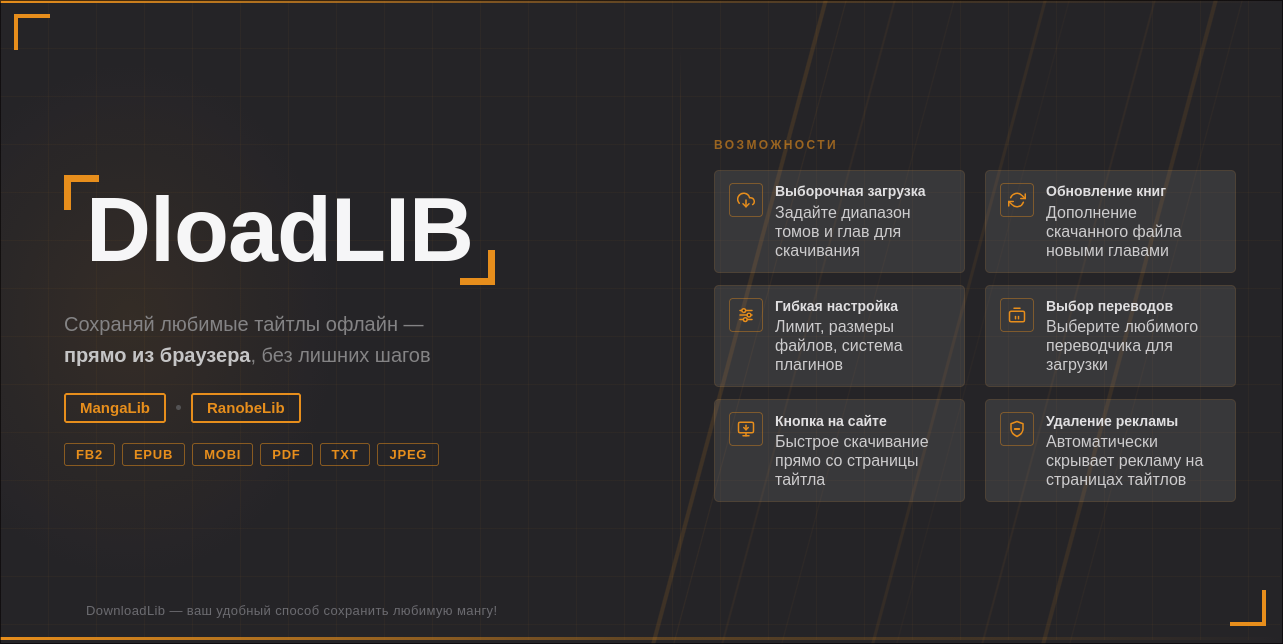
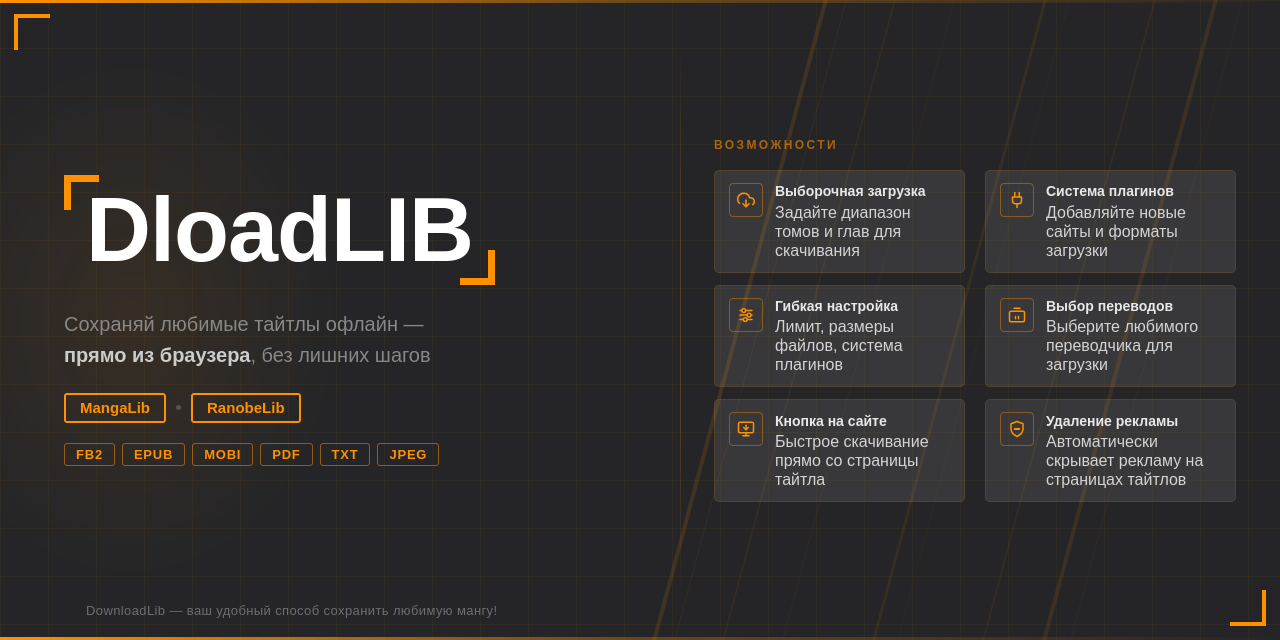
Update preview

diff --git a/screenshots/preview.html b/screenshots/preview.html
@@ -198,14 +198,14 @@
         </div>
       </div>
 
-      <!-- 2 — Обновление книг -->
+      <!-- 2 — Система плагинов -->
       <div class="feat-card">
         <div class="feat-icon">
-          <svg viewBox="0 0 24 24"><polyline points="23 4 23 10 17 10"/><polyline points="1 20 1 14 7 14"/><path d="M3.51 9a9 9 0 0 1 14.85-3.36L23 10M1 14l4.64 4.36A9 9 0 0 0 20.49 15"/></svg>
+          <svg viewBox="0 0 24 24"><path d="M12 22v-5"/><path d="M9 8V2"/><path d="M15 8V2"/><path d="M18 8v5a4 4 0 0 1-4 4h-4a4 4 0 0 1-4-4V8Z"/></svg>
         </div>
         <div class="feat-body">
-          <div class="feat-title">Обновление книг</div>
-          <div class="feat-desc">Дополнение скачанного файла новыми главами</div>
+          <div class="feat-title">Система плагинов</div>
+          <div class="feat-desc">Добавляйте новые сайты и форматы загрузки</div>
         </div>
       </div>
 
